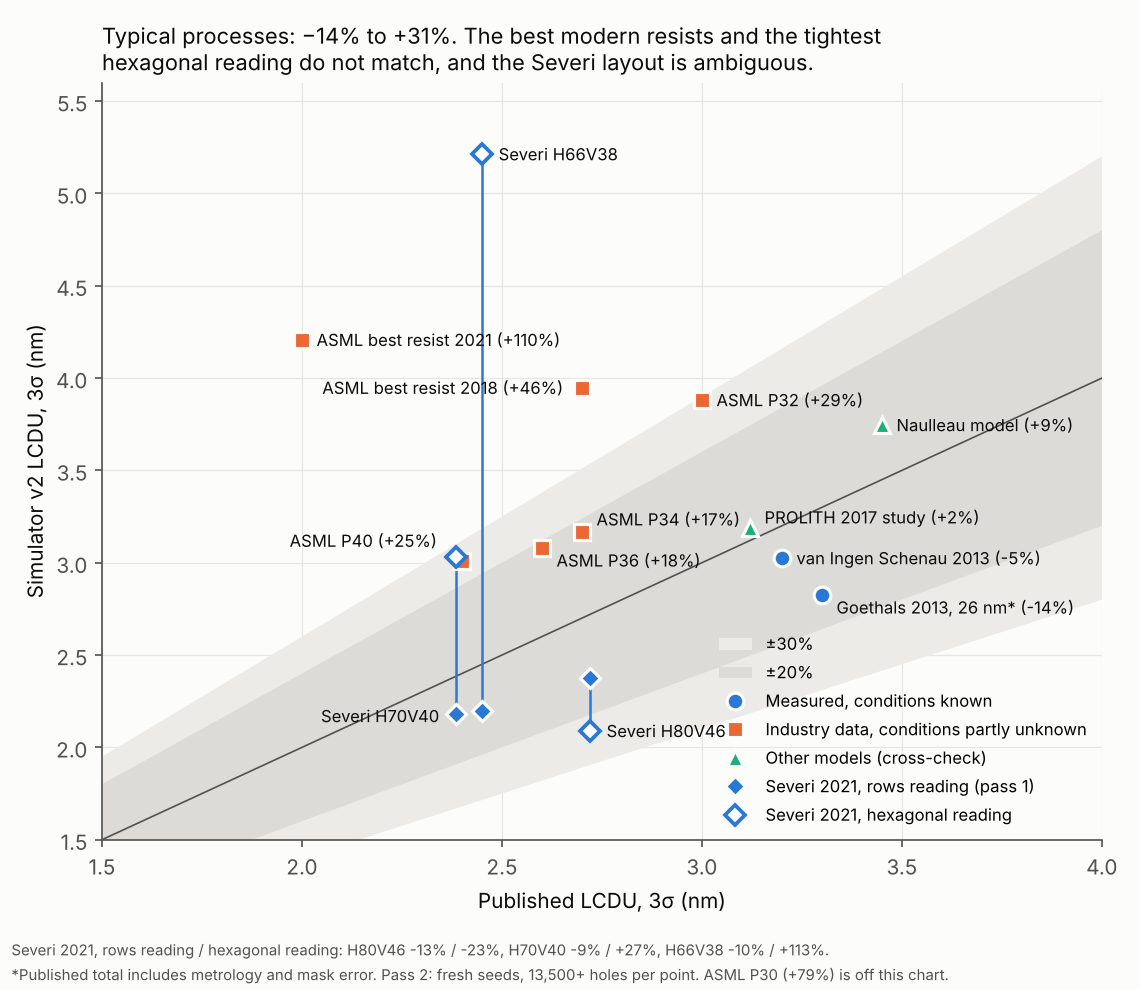
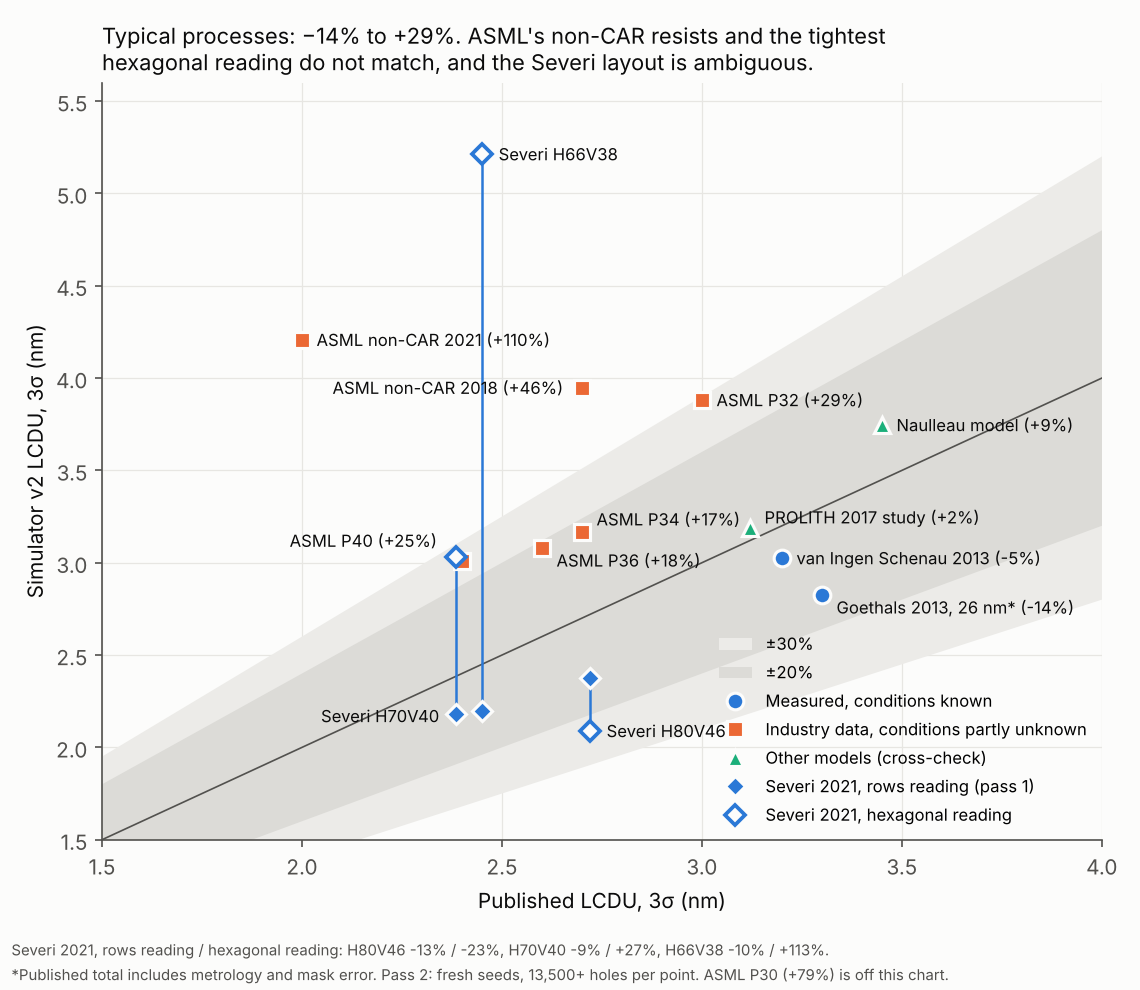
Correct VERIFICATION source labels, parity figure title, and README status
- ASML 2018/2021 P40 "best resist" points are non-CAR per the source
  slides (van Schoot and Santaclara et al., EUVL Workshop 2021), not CAR;
  relabel in VERIFICATION.md, DATASET.md, CALIBRATION.md and the figure
- Parity figure headline said +31%; plotted data gives +29%. Headline is
  now computed from the data
- README: mark dataset, test set and model comparison done, add results
  table, notebook, and the commands actually used (3000 / 400 resists)

Claude-Session: https://claude.ai/code/session_0129iss9DjfK2HnBe8XK94QD

Changed region(s): [[0.3684, 0.0303, 0.7675, 0.0606], [0.2763, 0.3333, 0.4912, 0.3939]]

diff --git a/sim/make_verification_figure.py b/sim/make_verification_figure.py
@@ -28,8 +28,10 @@ pts = [  # (label, published, simulated, group)
     ("ASML P36", 2.6, p2["P4_asml_P36"]["lcdu_3s"], "industry"),
     ("ASML P34", 2.7, p2["P4_asml_P34"]["lcdu_3s"], "industry"),
     ("ASML P32", 3.0, p2["P4_asml_P32"]["lcdu_3s"], "industry"),
-    ("ASML best resist 2018", 2.7, p2["P3_asml_hexP40_2018_hexapole"]["lcdu_3s"], "industry"),
-    ("ASML best resist 2021", 2.0, p2["P3_asml_hexP40_2021_hexapole"]["lcdu_3s"], "industry"),
+    # ASML/imec P40 hexagonal pillars/CH: the source slides label these resists non-CAR,
+    # so they are not like-for-like with v2's chemically amplified resist model
+    ("ASML non-CAR 2018", 2.7, p2["P3_asml_hexP40_2018_hexapole"]["lcdu_3s"], "industry"),
+    ("ASML non-CAR 2021", 2.0, p2["P3_asml_hexP40_2021_hexapole"]["lcdu_3s"], "industry"),
     ("Naulleau model", 3.45, p2["P4_naulleau_model"]["lcdu_3s"], "model"),
     ("PROLITH 2017 study", 3.12, next(r for r in p2["P2_mack2017_prolith"]["sweep"] if r["mask_cd"] == 24.0)["lcdu_3s"],
      "model"),
@@ -52,14 +54,14 @@ ax.plot(x, x, color=INK2, lw=0.8)
 seen = set()
 offsets = {"ASML P36": (7, -9), "ASML P34": (7, 3), "ASML P40": (-60, 4), "Naulleau model": (7, -3),
            "van Ingen Schenau 2013": (7, -3), "Goethals 2013, 26 nm*": (7, -9), "ASML P32": (7, -3),
-           "ASML best resist 2018": (7, -3), "ASML best resist 2021": (7, -3), "PROLITH 2017 study": (7, 2)}
+           "ASML non-CAR 2018": (7, -3), "ASML non-CAR 2021": (7, -3), "PROLITH 2017 study": (7, 2)}
 for lab, pub, sim, g in pts:
     c, m, name = style[g]
     ax.plot(pub, sim, m, color=c, ms=8, mec=SURFACE, mew=1.5, label=None if g in seen else name, zorder=3)
     seen.add(g)
-    right = lab in ("ASML best resist 2018", "ASML P40")
+    right = lab in ("ASML non-CAR 2018", "ASML P40")
     ax.annotate(f"{lab} ({(sim - pub) / pub:+.0%})", (pub, sim),
-                xytext=(-9, -3) if lab == "ASML best resist 2018" else (-12, 7) if lab == "ASML P40"
+                xytext=(-9, -3) if lab == "ASML non-CAR 2018" else (-12, 7) if lab == "ASML P40"
                 else offsets.get(lab, (7, 0)),
                 textcoords="offset points", fontsize=8, color=INK, ha="right" if right else "left")
 
@@ -79,7 +81,9 @@ for i, (tag, pub, rows, hexa) in enumerate(severi):
 ax.set_xlim(1.5, 4.0); ax.set_ylim(1.5, 5.6)
 ax.set_xlabel("Published LCDU, 3σ (nm)", color=INK)
 ax.set_ylabel("Simulator v2 LCDU, 3σ (nm)", color=INK)
-ax.set_title("Typical processes: −14% to +31%. The best modern resists and the tightest\n"
+# headline range is computed from the eight typical-process points, not typed in
+typical = [(s - p) / p for lab, p, s, g in pts if "non-CAR" not in lab]
+ax.set_title(f"Typical processes: {min(typical):+.0%} to {max(typical):+.0%}. ".replace("-", "−") + "ASML's non-CAR resists and the tightest\n"
              "hexagonal reading do not match, and the Severi layout is ambiguous.",
              loc="left", fontsize=10.5, color=INK)
 ax.legend(frameon=False, fontsize=8, loc="lower right")

diff --git a/results/VERIFICATION.md b/results/VERIFICATION.md
@@ -8,9 +8,18 @@
 - **The Monte Carlo itself is right.** A separate calculation that uses no random numbers (linear noise propagation) predicts the same photon and acid noise within 1–3% in all five test cases. The only gap (quencher noise, 9–12%) is explained and goes away where the theory is valid.
 - **Pass 2 found two bugs and fixed them, plus one source detail pass 1 got wrong.** The merged-hole flag counted stray specks as merges, and mask holes were rounded to whole pixel pairs. Pass 1's best anchor, "within 8% of Severi 2021", is **withdrawn**: the paper's array layout can be read two ways, and the match ranges from −23% to +7% depending on the reading and illumination. Under the hexagonal reading, the tightest Severi array is missed badly (+43% to +113%).
 - **Failure rates are right in order of magnitude but probably optimistic on missing holes.** At 40 nm pitch the two failure cliffs meet around 10⁻⁶ at typical doses, consistent with imec. Two other simulators (ASML's and PROLITH) close holes more readily near the small-size cliff, so v2 may under-predict missing holes by up to ~10×. Pass 1's merged-hole numbers were inflated 5–8× by the bug.
-- **The best modern resists still beat the model by 46–110%.** Pass 2 tried the illumination those processes use (hexapole); it did not close the gap, so the gap is resist chemistry, not optics.
+- **ASML's best resists (2018 / 2021) still beat the model by 46–110%, but they are not like-for-like.** The source slides list both as **non-CAR** resists printing P40 hexagonal pillars/contact holes (see the Nov 25 correction below), while v2 models a chemically amplified resist. Pass 2 tried the illumination those processes use (hexapole); it did not close the gap, which fits a resist-chemistry difference rather than optics.
 
 - **Final checks before the dataset (Nov 4)** passed: optics confirmed a second way (within 0.35%), pixel, tile and fit convergence at the corners of the dataset domain, honest error bars, binomial failure counts (merges counted as events). See [DATASET.md](DATASET.md).
+
+### Correction (Nov 25, 2026)
+
+Re-checking the sources against the report found two errors in this file and its figure. Neither changes any simulator number.
+
+| What was wrong | What the source shows | Fixed in |
+| --- | --- | --- |
+| The ASML 2018 / 2021 P40 points (2.7 / 2.0 nm) were listed as "P40 CAR LCDU" and called the best CAR resists | The ASML slide (van Schoot, EUVL Workshop 2021, slide 28) and the underlying imec/ASML talk (Santaclara et al., EUVL Workshop 2021, P51, slide 7) label the 2018 and 2021 entries **non-CAR**, for **P40 hexagonal pillars/CH**. The 2020 entry (2.1 nm) is the CAR one. The slide text is partly garbled, so this is the best reading; the Nov 10 audit reached the same conclusion for 2021. | Bottom line, pass 2 table, "ASML best resists" paragraph, source checks below, parity figure labels |
+| Parity figure headline said "−14% to +31%" | The plotted points give −14% to +29% (ASML P32 is the maximum), matching every table here. The headline was typed in by hand. | `make_verification_figure.py` now computes the headline from the data |
 
 **Safe description for the project:** "a literature-parameterized stochastic simulator that reproduces published hole-size variation for typical CAR processes within about ±30%, cross-checked against an independent semi-analytical model and a published commercial-simulator result, with order-of-magnitude (likely optimistic) failure-rate estimates." It should not be described as matching any specific fab or resist.
 
@@ -44,7 +53,7 @@ Also noted: in the high-quencher Naulleau case the deprotection-rate fit is poor
 | Severi 2021 match | +8% | −13% to +7% (rows reading), −23% or −7% (hexagonal, hexapole or annular) | **Disagree.** Pass 1 was over-confident; the layout is ambiguous |
 | Naulleau model | +3% | +9% | Agree within the band |
 | Another simulator (PROLITH, 2017 study) | not checked | +2% (one layer), +8% (five layers) | New agreement |
-| Best modern resists (ASML 2018 / 2021) | +35% / +92% | +46% / +110% with hexapole (+40% / +102% annular) | Agree: model is conservative against the state of the art |
+| Best modern resists (ASML 2018 / 2021; non-CAR per the slides) | +35% / +92% | +46% / +110% with hexapole (+40% / +102% annular) | Agree, but not like-for-like: a non-CAR process against a CAR model |
 | ASML P30 | +52%, "past the model's limit (26% merged)" | +79%, only 1.2% merged | Number agrees in direction; **pass 1's explanation was the bug** |
 | Interference lithography (Wang 2019) | not comparable, "most holes merged" | not comparable, 3× too high, few merges | Same conclusion; pass 1's explanation was the bug |
 | Severi sensitivity range | 2.64–3.20 nm | 2.67–3.32 nm | Agree |
@@ -102,7 +111,7 @@ Under the rows reading, v2 matches all three within −13% to +4% and reproduces
 
 v2 sits below the totals, as it should, since the totals also contain mask and metrology error. Its dose trend is weaker than the data (1.19× from 31.7 to 18.1 mJ/cm² against 1.36×), but these are four different resists, not one resist at four doses.
 
-**ASML best resists with hexapole illumination:** 3.95 / 4.21 nm against 2.7 / 2.0 nm (+46% / +110%). Hexapole didn't help, so the gap to the best resists is resist chemistry, not illumination.
+**ASML best resists with hexapole illumination:** 3.95 / 4.21 nm against 2.7 / 2.0 nm (+46% / +110%). Hexapole didn't help, so the gap to the best resists is resist chemistry, not illumination. That fits the sources: both entries are non-CAR resists (see the Nov 25 correction), a chemistry v2 does not model.
 
 **Church et al. 2020 (IBM/Fractilia)** contributes two checks without new numbers to fit: SEM noise inflated their measured via LCDU by about 0.6 nm, which is why every comparison here uses stochastic-only or low-noise values where available; and their unbiased LCDU didn't change with CD, matching v2's flat size trend from 18 to 28 nm.
 
@@ -144,7 +153,8 @@ Every number reproduces within 2%, so the comparisons are not luck of the draw.
 | Maas et al. 2018, JM3 17(4) 041003 (ASML) | LCDU ∝ dose^−0.5 (threshold changes) vs dose^−0.33 (QE changes), metal-oxide model | Abstract |
 | Church et al. 2020, JM3 19(3) 034001 (IBM) | SEM noise inflated via LCDU by 0.6 nm; unbiased LCDU flat with CD | Abstract |
 | De Bisschop & Hansen 2022, JM3 21(3) 033201; Hansen 2018 | LCDU ∝ 1/ILS correlator; Gaussian-random-field models (method behind check 1) | Abstracts |
-| ASML, EUVL Workshop 2021 (euvlitho.com/2021/P3.pdf) | P40 dense holes need 79 mJ/cm² for < 10⁻⁶ defects at 0.33 NA (simulated, photon noise only) | Slides (also used in pass 1) |
+| van Schoot (ASML), *High-NA EUV progress and outlook*, EUVL Workshop 2021 (euvlitho.com/2021/P3.pdf) | P40 dense holes need 79 mJ/cm² for < 10⁻⁶ defects at 0.33 NA (simulated, photon noise only) | Slides (also used in pass 1) |
+| Santaclara et al. (ASML/imec), *Progress and outlook towards High-NA EUV resist*, EUVL Workshop 2021 (euvlitho.com/2021/P51.pdf) | Resist type for each P40 hexagonal pillars/CH entry (added Nov 25) | Slides |
 
 ### What pass 2 means for the project
 
@@ -175,7 +185,7 @@ Every number reproduces within 2%, so the comparisons are not luck of the draw.
 | CD 15 / 17.4 / 19.5 / 21.2 nm at 30 / 33 / 36 / 39 mJ/cm²; ~10% closing at 15 nm | Yen 2018 slides | Full slides read | Confirmed; simulations |
 | Dose-to-size 31.7 / 33.5 mJ/cm², 1σ LCDU 1.1 / 1.7 nm, NA 0.25, 60 nm film, quasar | Goethals et al. 2013 | Full slides read | Confirmed; corrected CDs |
 | 0.33 NA, 40 nm CAR: LCDU 2.4 / 2.6 / 2.7 / 3.0 / 3.6 nm at P40–P30, 63–73 mJ/cm² | ASML 2024 investor presentation (SEC exhibit 99.4) | Full text read | Confirmed numbers; measured vs simulated and pattern type not stated |
-| P40 CAR LCDU 2.7 / 2.2 / 2.1 / 2.0 nm at 66 / 65 / 61 / 53 mJ/cm² (2018–2021) | ASML, EUVL Workshop 2021 | Slides read | Confirmed numbers; conditions partly unknown |
+| P40 hexagonal pillars/CH LCDU 2.7 / 2.2 / 2.1 / 2.0 nm at 66 / 65 / 61 / 53 mJ/cm² (2018–2021) | ASML (van Schoot), EUVL Workshop 2021; Santaclara et al., EUVL Workshop 2021 | Slides read | Confirmed numbers. **Corrected Nov 25:** originally listed as CAR; the slides label 2018, 2019 and 2021 non-CAR and 2020 CAR |
 | P40 dense holes at 0.33 NA need 79 mJ/cm² for <10⁻⁶ defect rate | ASML, EUVL Workshop 2021 | Slides read | Confirmed; simulated |
 | 24 nm HP regular holes: LCDU 3.2 nm (small annular, 31 mJ/cm² resist) | van Ingen Schenau 2013 (ASML) | Slides via search | Confirmed numbers; sigma values assumed |
 | Cliffs "touch at around 1 ppm" at 40 nm pitch | imec via SemiWiki 2019 | Article text | Confirmed (dose not stated) |

diff --git a/README.md b/README.md
@@ -4,19 +4,35 @@ CS 427 Project 3 (Hood College) — Ryan Sapp
 
 A Monte Carlo simulator of how contact holes print under EUV lithography, plus machine-learning surrogate models (linear regression, random forest, neural network) that predict failure rate and hole-size variation from process settings.
 
-**Simulator v2** follows the structure of published stochastic resist models: partially coherent NA 0.33 optics, photon shot noise, PAG, quencher and protecting-group counting, electron blur, acid and quencher diffusion, and threshold development. Its parameters come from published values. After two independent verification passes, hole-size variation for typical resist processes lands within about ±30% of published numbers (−14% to +29% across eight comparisons, including +2% against the PROLITH simulator), and its Monte Carlo agrees with a separate semi-analytical noise model within 1–3% for photon and acid noise. Failure rates are order-of-magnitude estimates, probably optimistic on missing holes. See [`results/VERIFICATION.md`](results/VERIFICATION.md) and [`results/CALIBRATION.md`](results/CALIBRATION.md).
+**Simulator v2** follows the structure of published stochastic resist models: partially coherent NA 0.33 optics, photon shot noise, PAG, quencher and protecting-group counting, electron blur, acid and quencher diffusion, and threshold development. Its parameters come from published values. After two independent verification passes, hole-size variation for typical resist processes lands within about ±30% of published numbers (−14% to +29% across eight comparisons, including +2% against the PROLITH simulator), and its Monte Carlo agrees with a separate semi-analytical noise model within 1–3% for photon and acid noise. Failure rates are order-of-magnitude estimates, probably optimistic on missing holes. ASML's best 2018/2021 resists beat it by 46–110%, but those are non-CAR resists, so not like-for-like. See [`results/VERIFICATION.md`](results/VERIFICATION.md) and [`results/CALIBRATION.md`](results/CALIBRATION.md).
 
 ## Status
+
+All Phase 2 work is complete.
 
 - [x] Prototype simulator (v1) and failure-cliff sweep
 - [x] Simulator v2 with literature parameters
 - [x] Calibration against published data (`results/CALIBRATION.md`)
-- [x] Verification, two passes: sources, real-world data, another simulator, a semi-analytical check (`results/VERIFICATION.md`)
-- [x] Unit tests (`sim/test_simulator_v2.py`)
+- [x] Verification, two passes plus a Nov 25 source re-check: sources, real-world data, another simulator, a semi-analytical check (`results/VERIFICATION.md`)
+- [x] Unit tests: 16 (`sim/test_simulator_v2.py`, `sim/test_make_dataset.py`)
 - [x] Dataset generator with built-in quality checks; pilot passed (`results/DATASET.md`)
-- [ ] Full dataset generation (Latin hypercube over process settings)
-- [ ] Model comparison: linear regression, random forest, neural network
-- [ ] Report and presentation
+- [x] Full dataset: 3,000 resists sampled by Latin hypercube, 2,520 accepted, 20,160 rows; QA passed with no warnings (`results/qa_full.md`)
+- [x] Held-out test set: 400 resists from a different seed, 337 accepted, 2,696 rows
+- [x] Model comparison: linear regression, random forest and neural network on three targets, with grouped cross-validation, held-out scores and a leakage check (`notebooks/ml_pipeline_ryan.ipynb`, `results/ml/`)
+- [x] Written report
+- [ ] Class presentation (Phase 3)
+
+## Results
+
+R² on the 337 held-out resists, which no model saw during training or selection (`results/ml/heldout_scores.csv`):
+
+| Target | Linear | Random forest | Neural net |
+| --- | --- | --- | --- |
+| Failure rate (log10) | 0.503 | 0.974 | **0.989** |
+| Mean hole size | 0.981 | 0.996 | **0.9997** |
+| Size variation | 0.719 | 0.945 | **0.982** |
+
+Held-out scores match the grouped cross-validation scores (`cv_scores.csv`), and an ordinary random split changes R² by at most 0.004 (`leakage_comparison.csv`).
 
 ## Layout
 
@@ -40,10 +56,13 @@ sim/
   test_simulator_v2.py   sanity tests
   simulator.py           v1 prototype (kept for reference)
   sweep.py, lcdu_check.py, stages.py   v1 scripts
-results/      figures, calibration report, small CSV/JSON
-notebooks/    exploration, calibration, modeling
-report/       written report
-data/         large generated datasets (not committed)
+notebooks/
+  ml_pipeline_ryan.ipynb feature selection, grouped CV, held-out test, leakage check -> results/ml/
+results/      figures, calibration and verification reports, QA reports, small CSV/JSON
+  ml/                    cv_scores.csv, heldout_scores.csv, leakage_comparison.csv
+data/
+  pilot/                 50-resist pilot dataset (committed)
+  full/, test/           full and held-out datasets (not committed; regenerate below)
 ```
 
 ## Run
@@ -55,9 +74,14 @@ python sim/simulator_v2.py        # one quick dose-to-size example
 python sim/calibrate.py           # ~5 min
 python sim/make_figures.py
 
-# dataset (see results/DATASET.md)
-cd sim && python make_dataset.py --out ../data/full --n-resists 1500 --workers 8
+# datasets (see results/DATASET.md); about 1 h 50 min for the full set on 8 cores
+cd sim
+python make_dataset.py --out ../data/full --n-resists 3000 --workers 8
+python make_dataset.py --out ../data/test --n-resists 400 --workers 8 --seed 999
 python check_dataset.py ../data/full
+
+# models: open notebooks/ml_pipeline_ryan.ipynb and run all cells
+# (reads ../data/full/rows.csv and ../data/test/rows.csv)
 ```
 
 Scripts save to `results/` wherever they are run from.

diff --git a/results/CALIBRATION.md b/results/CALIBRATION.md
@@ -4,7 +4,7 @@
 
 ## Verdict
 
-Simulator v2 produces realistic numbers for a typical chemically amplified resist. Hole-to-hole size variation (LCDU) lands between −14% and +29% across eight comparisons with typical processes (measured data, industry data and two other models). The best modern resists do 30–50% better than the model. Printed size versus dose matches an ASML simulation within 5%, and every qualitative trend in the literature appears. The resist parameter that gets fitted (quencher loading) always lands inside its published range.
+Simulator v2 produces realistic numbers for a typical chemically amplified resist. Hole-to-hole size variation (LCDU) lands between −14% and +29% across eight comparisons with typical processes (measured data, industry data and two other models). The best modern resists do 30–50% better than the model (these are non-CAR resists, so not like-for-like; see VERIFICATION.md, Nov 25 correction). Printed size versus dose matches an ASML simulation within 5%, and every qualitative trend in the literature appears. The resist parameter that gets fitted (quencher loading) always lands inside its published range.
 
 The weakest part is the **absolute rate of missing holes**. The failure cliffs have the right shape and roughly the right level (consistent with imec's ~1 ppm floor at 40 nm pitch), but rates are uncertain by about an order of magnitude. Treat them as estimates.
 

diff --git a/results/DATASET.md b/results/DATASET.md
@@ -89,7 +89,7 @@ A model that beats those R² values is fitting simulation noise.
 
 ## Known biases (from VERIFICATION.md)
 
-- LCDU is within about ±30% of published typical CAR processes; the best modern resists are 46–110% better.
+- LCDU is within about ±30% of published typical CAR processes; ASML's best 2018/2021 resists are 46–110% better, but those are non-CAR (see VERIFICATION.md, Nov 25 correction).
 - Missing-hole rates near the small-size cliff are probably too low, by up to ~10× (two other simulators close holes more readily).
 - Square arrays, NA 0.33 and quasar illumination only. No focus, mask 3D effects or flare. Simple threshold development. The 1 nm pixel is part of the model's definition, and the pixel check above shows it has no effect once each resist is fitted.
 
